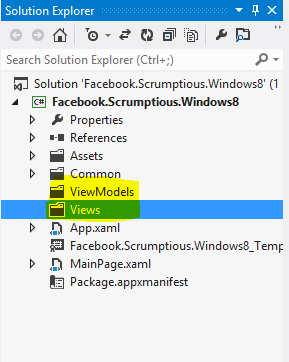
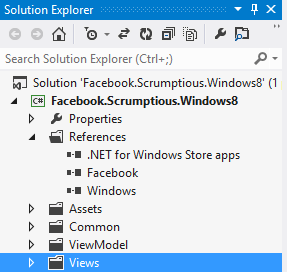
- Checkpoint on Friends List

diff --git a/docs/windows/tutorial/index.md b/docs/windows/tutorial/index.md
@@ -211,7 +211,7 @@ Also add the following code to set the User's FacebookId in _App.FacebookId_ and
             Frame.Navigate(typeof(LandingPage));
         }
 
-At this step, also add a new item of type _class_ to the _ViewModels_ folder. Call the class _Constants.cs_ and add the following code to it. Make sure to replace the string _Your Facebook App ID here_ with your Facebook App ID that you obtained earlier when you created your app on the Facebook Developer Portal.
+At this step, also add a new item of type _class_ to the _ViewModel_ folder. Call the class _Constants.cs_ and add the following code to it. Make sure to replace the string _Your Facebook App ID here_ with your Facebook App ID that you obtained earlier when you created your app on the Facebook Developer Portal.
 
     class Constants
     {
@@ -287,6 +287,127 @@ As before, make sure to resolve any missing dependencies as illustrated earlier 
 
 ![Personalized Page](images/Personalize/Personalized-Page.png)
 
+
+##Show Friends
+
+### Creating the UI
+
+Download the file [dl]: Assets/icons.zip to get the icons for the tutorial. Uncompress the file and drag all the icons to the Assets folder in Visual Studio project window.
+
+After that, add the following code to LandingPage.xaml. This adds an icon and Text for _Selecting Friends_. Additionally, it wires up the tap event on the _Select Friends_ TextBlock via an event handler named selectFriendsTextBox_Tapped.
+
+
+            <StackPanel Grid.Column="1" Margin="10,0,0,0" VerticalAlignment="Center">
+                <Grid x:Name="WithWhomGrid" >
+                    <Grid.ColumnDefinitions>
+                        <ColumnDefinition Width="150"/>
+                        <ColumnDefinition Width="
+						*"/>
+                    </Grid.ColumnDefinitions>
+                    <Image HorizontalAlignment="Center" Height="150" VerticalAlignment="Center" Width="150"  Grid.Column="0" Stretch="None" Source="ms-appx:///Assets/PersonWin8.png" />
+                    <StackPanel Grid.Column="1">
+                        <TextBlock TextWrapping="Wrap" Text="With Whom?" FontFamily="Segoe UI" FontSize="48"/>
+                        <TextBlock x:Name="selectFriendsTextBox" TextWrapping="Wrap" Text="Select Friends" FontFamily="Segoe UI" FontSize="26.667" Foreground="#FF6DB7C7" Tapped="selectFriendsTextBox_Tapped"/>
+                    </StackPanel>
+                </Grid>
+            </StackPanel>
+
+We will now make the app a bit more interactive and let the user pick out their friends.
+
+### Create the ViewModel class
+
+Create an static ObservableCollection of friends that you will later use to connect the UI to the data. Making it ObservableCollection allows you to use one of the strongest points of XAML, data binding.
+In the ViewModel folder, create a new item of type Class and set its name to be _FacebookDataModel.cs_ Inside this file, remove the class FacebookDataModel and paste the following code which defines a class representing a _Facebook Friend_. We are also declaring an _ObservableCollection of Friend_ inside another class called _FacebookData_ which will represent the list of our friends. Declaring this as an _ObservableCollection_ has the added advantage that we can use Expression Blend to easily bind the collection data to the UI without having to write complicated DataModel<->UI synchronization logic.
+
+        public class Friend
+        {
+            public string id { get; set; }
+            public string Name { get; set; }
+            public Uri PictureUri { get; set; }
+        }
+
+        public class FacebookData
+        {
+            private static ObservableCollection<Friend> friends = new ObservableCollection<Friend>();
+            public static ObservableCollection<Friend> Friends
+            {
+                get
+                {
+                    return friends;
+                }
+            }
+        }
+
+### Create the Friend Picker Page
+To the Views directory, add a Basic Page called FriendSelector.xaml. This page will hold the UI for showing and picking friends.
+
+Now finally, create the handler for the tapping event on the _Select Friends_ text box. Paste the following in the LandingPage.xaml.cs, which brings down the list of friends from Facebook.
+
+        async private void selectFriendsTextBox_Tapped(object sender, TappedRoutedEventArgs evtArgs)
+        {
+            FacebookClient fb = new FacebookClient(App.AccessToken);
+
+            dynamic friendsTaskResult = await fb.GetTaskAsync("/me/friends");
+            var result = (IDictionary<string, object>)friendsTaskResult;
+            var data = (IEnumerable<object>)result["data"];
+            foreach (var item in data)
+            {
+                var friend = (IDictionary<string, object>)item;
+
+                FacebookData.Friends.Add(new Friend { Name = (string)friend["name"], id = (string)friend["id"], PictureUri = new Uri(string.Format("https://graph.facebook.com/{0}/picture?type={1}&access_token={2}", (string)friend["id"], "square", App.AccessToken)) });
+            }
+
+            Frame.Navigate(typeof(FriendSelector));
+        }
+
+Let's take a deeper look at the code to fetch the list of Friends. The following line follows the async/await pattern in .NET 4.5, which is to say, that the GetTaskAsync function suspends execution of the selectFriendsTextBox_Tapped function and waits for the results of GetTaskAsync function to become available. One more thing to note is that the type of friendsTaskResult is _dynamic_ which means that the actual type of the variable will be interpreted at runtime. If the operation being performed on the data type is not valid, the runtime will issue an error.
+
+        dynamic friendsTaskResult = await fb.GetTaskAsync("/me/friends");
+
+Thus, when we want to unravel the friendsTaskResult, we have to understand it's schema. The [Graph Explorer on facebook](https://developers.facebook.com/tools/explorer/) is an invaluable tool for this purpose. Navigate to the above Graph Explorer website, login and fetch the URL _/me/friends_ to see how facebook sends the data back in JSON format:
+
+![Graph Explorer](images/Friends/1-graphexplorer.png)
+
+The data returned is similar to the following:
+        
+        {
+            "data": [
+                        {
+                            "name": "Ashu Razdan", 
+                            "id": "2516036"
+                        }, 
+                        {
+                            "name": "Jessie Rymph", 
+                            "id": "3103754"
+                        }
+                    ]
+        }
+    
+You can navigate data similar to above using _dynamic_ data type and _dictionaries_ pretty simply as shown below. The following typecasts the dynamic data returned into a dictionary of _<string,object>_. From that, we retrieve the value corresponding to the key _data_ in the dictionary.
+
+        var result = (IDictionary<string, object>)friendsTaskResult;
+        var data = (IEnumerable<object>)result["data"];
+            
+Following similar logic, we can retrieve each of our friends as a single object in the _foreach_ statement. Once we have obtained each object, we again typecast it to another dictionary and pick up the individual properties as shown below. This style of parsing data allows you to pick data from JSON objects without needing to create DeSerializer classes. We now, create _Friend_ objects and add them to the _static ObservableCollection_ named _Friends_ in the _FacebookData_ class. We will shortly use this Collection to create our Friend Selector page.
+
+            foreach (var item in data)
+            {
+                var friend = (IDictionary<string, object>)item;
+
+                FacebookData.Friends.Add(new Friend { Name = (string)friend["name"], id = (string)friend["id"], PictureUri = new Uri(string.Format("https://graph.facebook.com/{0}/picture?type={1}&access_token={2}", (string)friend["id"], "square", App.AccessToken)) });
+            }
+            
+### Create the Friend Picker
+
+Now that we have the Friends list as an ObservableCollection, we can create and bind it to the  UI using code, but it is much easier doing that using Expression Blend, so let's instead do that. To use Expression Blend on the project, right click on the project in Visual Studio and select _Open in Blend_. 
+
+>NOTE: Expression blend is one of the tools that makes developing UI in XAML extremely easy. Additionally, binding list data to UI becomes extremely easy with Blend. It is worth learning Expression Blend if you plan to do any long term development in C#/XAML. 
+
+
+3. Create the UI. Add a Listview to the UI. Edit item template in blend and add image and text box for friend names. Create data binding. Showcase what is happening under the hood. Allow multiselect on the list.
+
+4. Hook into the listview select event and creaet a list of all the selected friends in the model for later use. Save it in the Data Model.
+
 ### Next Steps
 Create three panels, one each for the restaurant, meal and friends. You can do this manually as well, but blend is a lot easier and faster. Setup event handlers for all the tap events.
 
@@ -296,17 +417,6 @@ Look at the Open Graph API for reference on how to fetch various kinds of data. 
 
 Wire up so that as soon as user navigates to this page, their usename and picture is fetched and connected to the interface.
 
-##Show Friends
-
-We will now make the app a bit more interactive and let the user pick out their friends.
-
-1. In the view model, create a class for representing a friend.
-
-2. Create an static ObservableCollection of friends that you will later use to connect the UI to the data. Making it ObservableCollection allows you to use one of the strongest points of XAML, data binding.
-
-3. Create the UI. Add a Listview to the UI. Edit item template in blend and add image and text box for friend names. Create data binding. Showcase what is happening under the hood. Allow multiselect on the list.
-
-4. Hook into the listview select event and creaet a list of all the selected friends in the model for later use. Save it in the Data Model.
 
 ##Show Nearby Places
 
